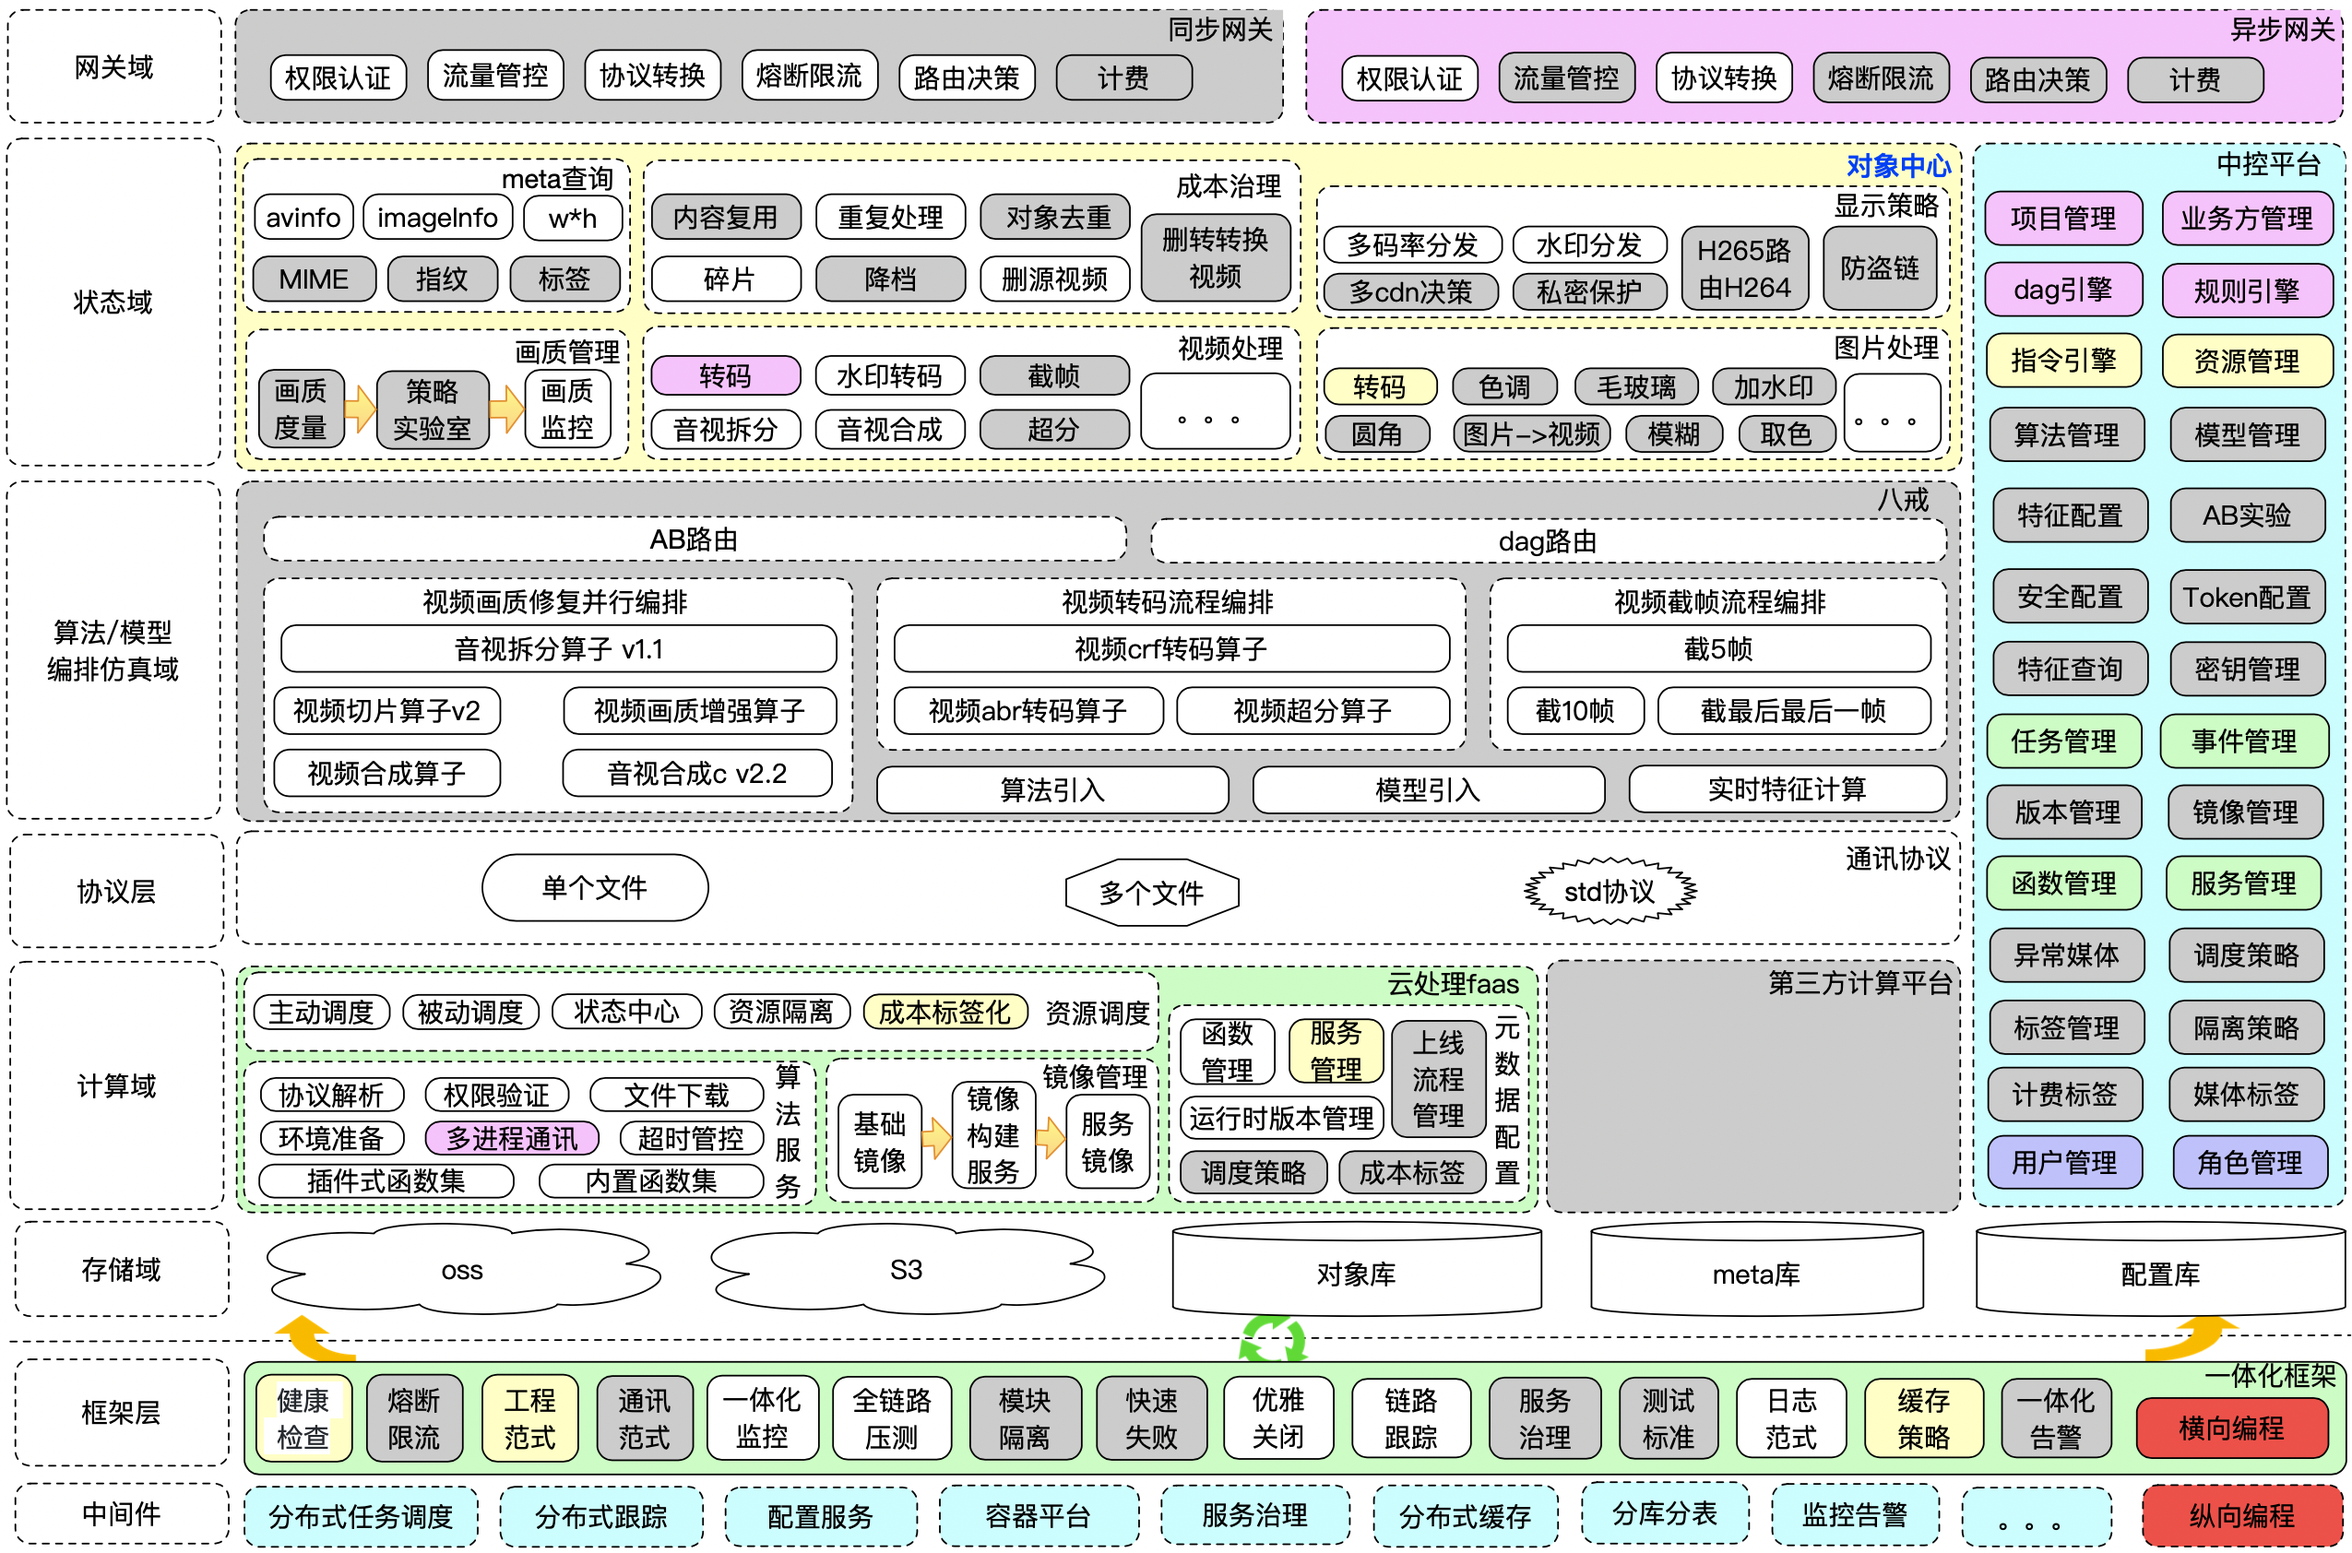
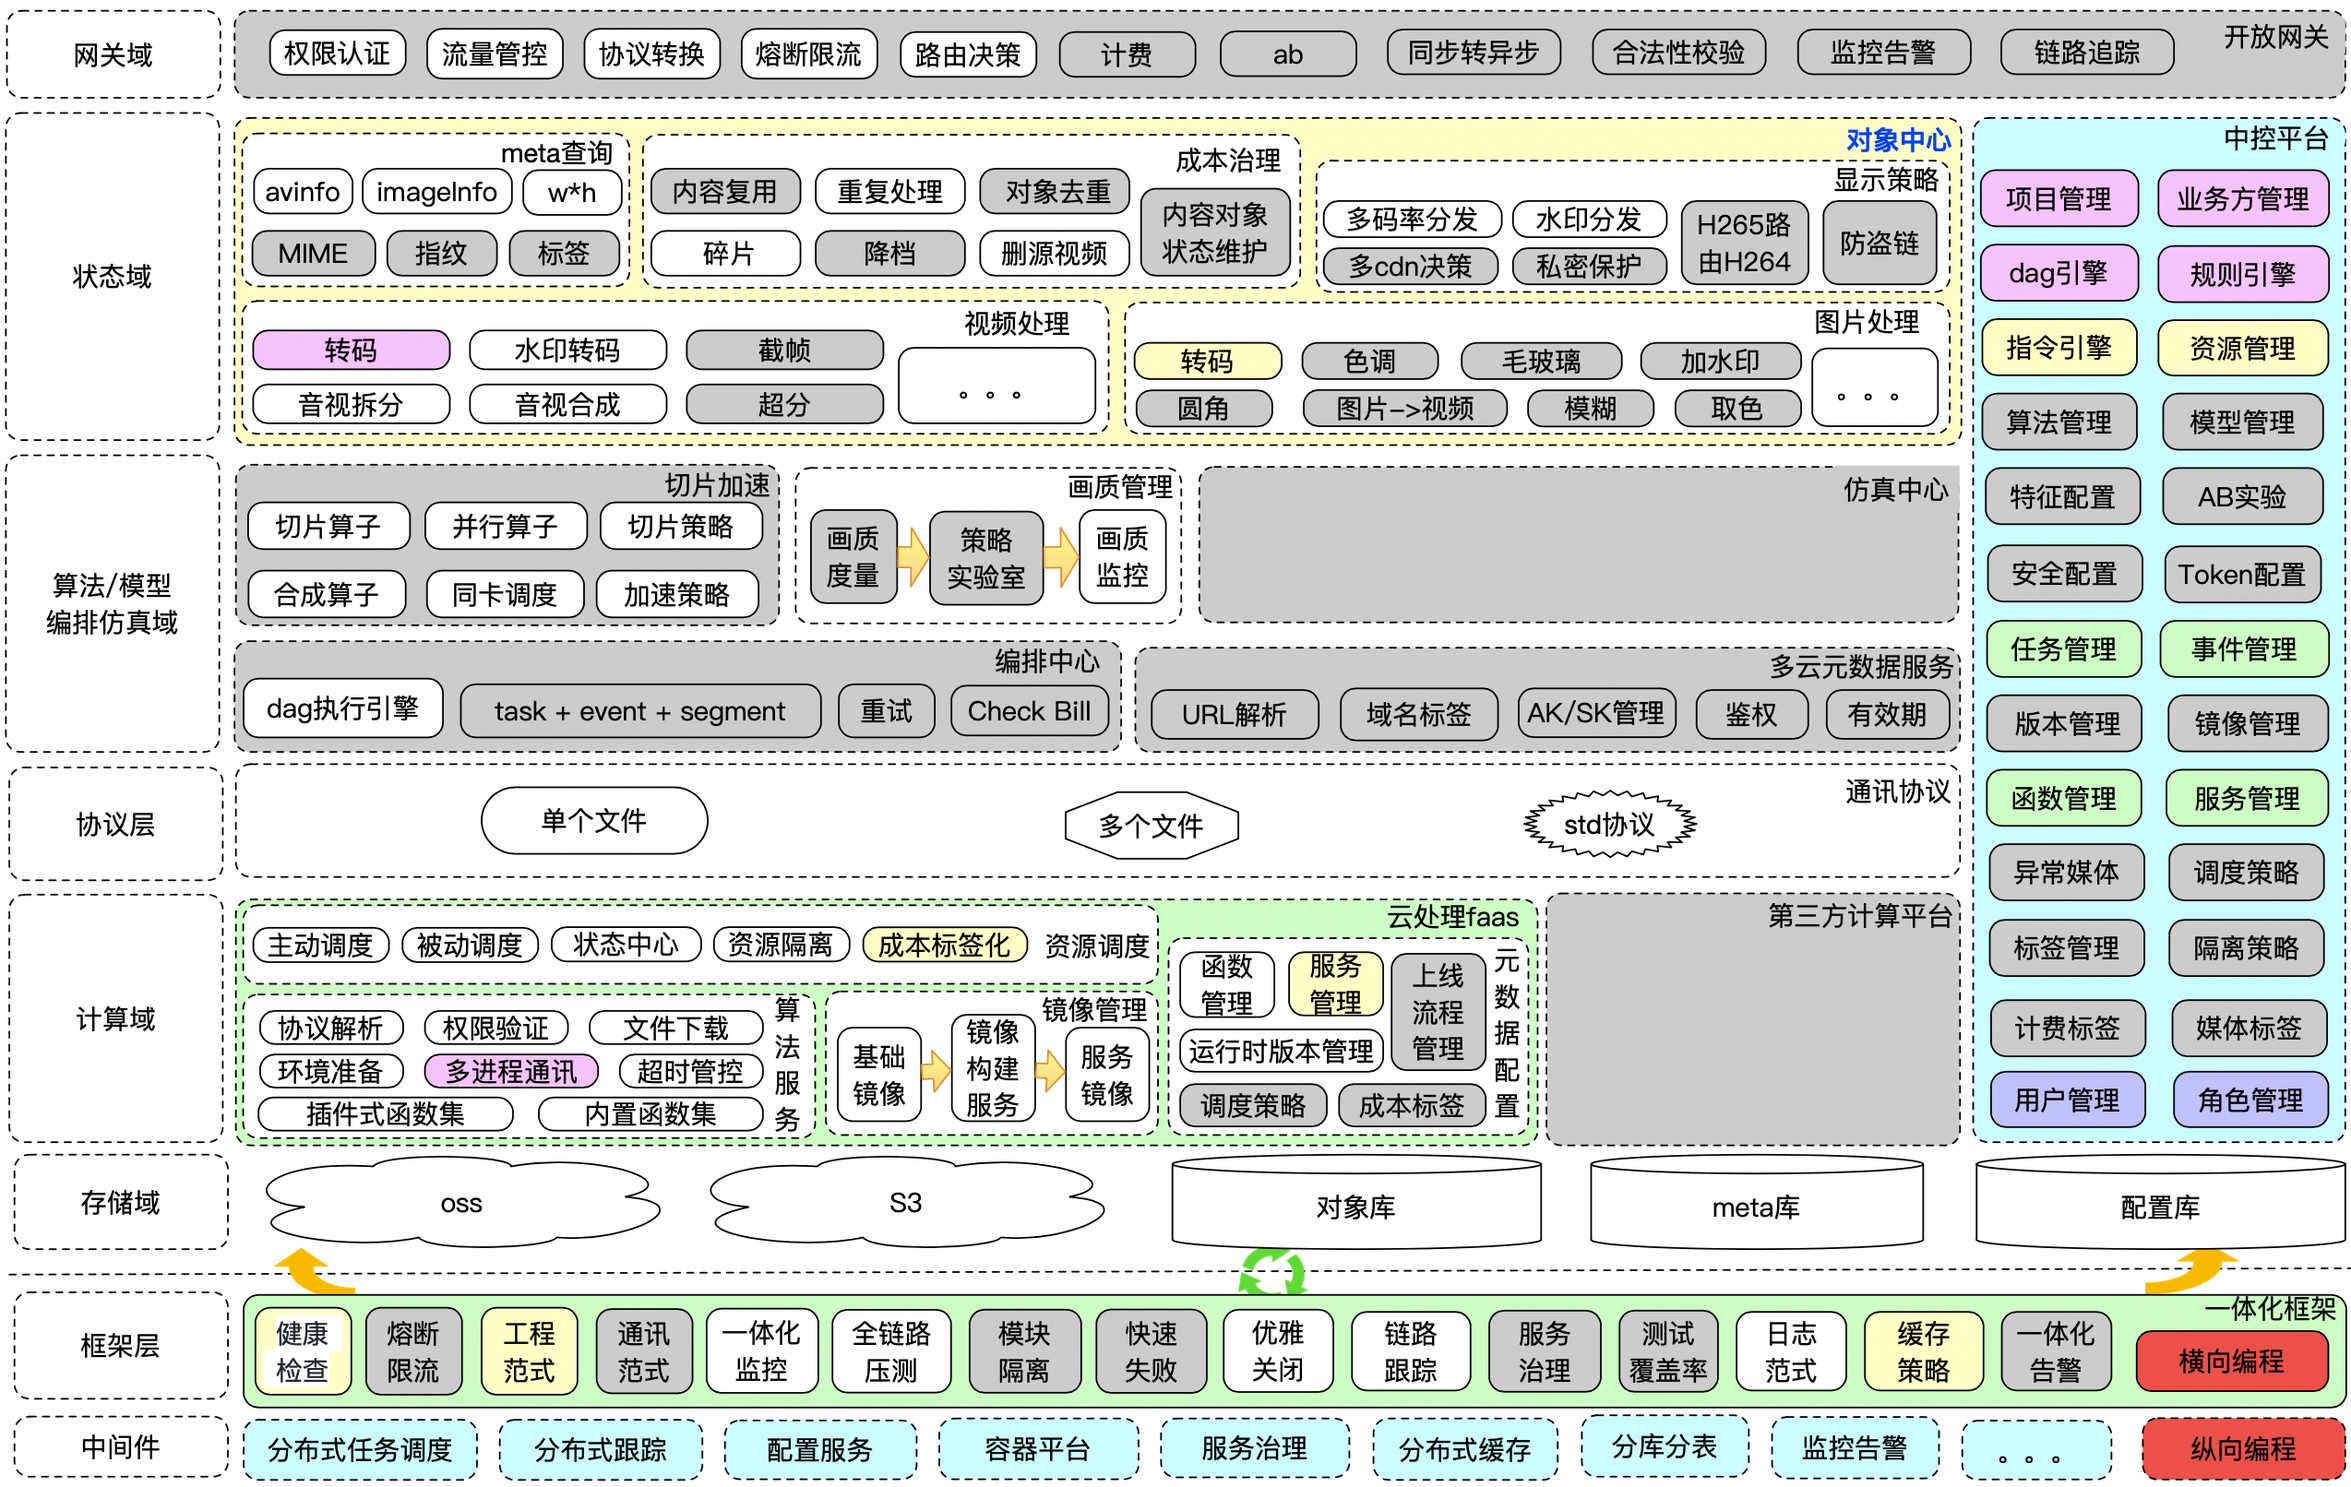
git p

diff --git a/source/_posts/云端图片、视频处理体系.md b/source/_posts/云端图片、视频处理体系.md
@@ -5,41 +5,42 @@ tags: cloud process sys
 
 # 背景
 
-&ensp;&ensp;作为现代科技的重要组成部分，云端图片、视频处理的体系，为我们提供了广泛而强大的工具，极大地拓展了数字媒体处理的领域。通过将图片和视频处理移至云端，我们能够享受到更高效、灵活、可扩展的服务，能够方便、快捷、高效地服务个人用户、企业和开发者。
+作为现代科技的重要组成部分，云端图片、视频处理的体系，为我们提供了广泛而强大的工具，极大地拓展了数字媒体处理的领域。通过将图片和视频处理移至云端，我们能够享受到更高效、灵活、可扩展的服务，能够方便、快捷、高效地服务个人用户、企业和开发者。
 
 # 发展历程
+PS:该模块，有点废话了，不感兴趣的人直接跳过，看：[怎么搭建](#怎么搭建)
 
-&ensp;&ensp;云端图片、视频处理的发展历程是一个与云计算技术和网络基础设施发展紧密相连的过程。以下是云端图片视频处理的发展史的主要阶段：
+云端图片、视频处理的发展历程是一个与云计算技术和网络基础设施发展紧密相连的过程。以下是云端图片视频处理的发展史的主要阶段：
 
 ## **起步阶段（2000年前）：**
 
-&ensp;&ensp;云端图片视频处理在早期主要受限于网络带宽、计算资源和存储技术的限制。由于云计算概念尚未充分发展，图片、视频计算主要依赖于本地设备进行（简称：端处理），优势：隐私性好、方便、快捷，劣势：受到硬件性能限制非常大。
+云端图片视频处理在早期主要受限于网络带宽、计算资源和存储技术的限制。由于云计算概念尚未充分发展，图片、视频计算主要依赖于本地设备进行（简称：端处理），优势：隐私性好、方便、快捷，劣势：受到硬件性能限制非常大。
 
 ## **初期云计算服务（2006年-2010年）：**
 
-&ensp;&ensp;随着云计算概念的提出，云服务提供商如Amazon Web Services (AWS)、Google Cloud Platform (GCP)
+随着云计算概念的提出，云服务提供商如Amazon Web Services (AWS)、Google Cloud Platform (GCP)
 、国内的阿里云等开始推出基础的云计算服务。图片、视频处理逐渐开始迁移到云端，但，规模和复杂性仍受限于当时的技术水平。
 
 ## **云端计算技术逐渐成熟（2011年-2015年）：**
 
-&ensp;&ensp;在这一时期，云计算技术不断发展，云服务商提供了更多的计算、存储和网络资源。图片、视频处理也逐渐脱离本地设备，转向云端进行，提高了处理速度和效率。此时期，许多基础的图像处理和编解码服务得以涌现。
+在这一时期，云计算技术不断发展，云服务商提供了更多的计算、存储和网络资源。图片、视频处理也逐渐脱离本地设备，转向云端进行，提高了处理速度和效率。此时期，许多基础的图像处理和编解码服务得以涌现。
 
 ## **深度学习的兴起（2016年-至今）：**
 
-&ensp;&ensp;深度学习技术的兴起对云端图片视频处理产生了深远影响。深度学习算法如卷积神经网络 (CNN)
+深度学习技术的兴起对云端图片视频处理产生了深远影响。深度学习算法如卷积神经网络 (CNN)
 的应用使得图像和视频处理更加精确和智能。云服务商纷纷推出深度学习服务，为图像识别、人脸识别、物体检测等任务提供了强大的支持。
 
 ## **多媒体服务整合（2018年-至今）：**
 
-&ensp;&ensp;云端图片、视频处理逐渐从简单的图像编辑、转换扩展到更复杂的多媒体服务整合。云服务商提供全面的多媒体处理服务，包括：图像识别、视频分析、实时流媒体处理等，为用户提供了更多选择。
+云端图片、视频处理逐渐从简单的图像编辑、转换扩展到更复杂的多媒体服务整合。云服务商提供全面的多媒体处理服务，包括：图像识别、视频分析、实时流媒体处理等，为用户提供了更多选择。
 
 ## **边缘计算和5G技术的应用（2020年-至今）：**
 
-&ensp;&ensp;随着边缘计算和5G技术的不断发展，云端图片视频处理在边缘设备上的应用逐渐增多。这使得实时性要求更高的应用，如智能监控、自动驾驶等，在边缘设备上能够更好地实现。
+随着边缘计算和5G技术的不断发展，云端图片视频处理在边缘设备上的应用逐渐增多。这使得实时性要求更高的应用，如智能监控、自动驾驶等，在边缘设备上能够更好地实现。
 
 ## **AIGC（2023年-至今）：**
 
-&ensp;&ensp;刚过去的2023年，aigc爆火：文生图、图生图、文生视频等等，其底层技术架构体系，依旧还是：云端图片、视频计算体系。<br>
+刚过去的2023年，aigc爆火：文生图、图生图、文生视频等等，其底层技术架构体系，依旧还是：云端图片、视频计算体系。<br>
 总体而言，云端图片、视频处理的发展历程是一个由基础计算到深度学习，再到整合多媒体服务，并涉及边缘计算和隐私保护的过程。未来，随着技术的不断进步，云端图片视频处理将在更多领域发挥作用，为用户提供更加强大和智能的服务。
 
 # 怎么搭建
@@ -58,15 +59,41 @@ tags: cloud process sys
 3、例子3：图片拼接：入参：2张以上的图片，出参：一张大图片，动作：拼接
 
 ## 网关域
-云端图片、视频处理体系的网关，按照调用范式：可分为：同步网关 + 异步网关。
-1、对于用户而言，同步等待计算结果的显示，使用体验会更好，但是，图片、视频计算，确实很慢，同步等待非常容易超时，在弱网情况下，超时会更严重。
-2、如果计算比较快，同步显示结果（例如：图片计算）。如果计算比较慢（例如：长视频、高分辨率的视频），用户端使用：等待队列 + 轮询查询结果。
-3、底层计算域，统一使用异步回调机制。因此，网关处，需要同步转异步，具体流程图：
+云端图片、视频处理体系的网关，按照调用范式：可分为：同步网关 + 异步网关。对于用户而言，同步等待计算结果的显示，使用体验会更好，但是，图片、视频计算，在分配cpu触发计算之前，又只有：文件url信息等少量信息，不足于决策：分配合理核数的cpu or gpu。
+因此，由负载机器去根据当前机器负载情况，去决策当前计算多少量的视频个数，能够确保整个集群的cpu or gpu，负载更均衡些，达到整个集群，相对更优。具体流程如下图所示：
 ![](/images/sync_2_async.png)
-
-底层cpu or gpu可以根据自己的实际负载来拖取相关任务发起计算。
+备注：
+1、在物理机时代，更是如此，若无：同步转异步功能，非常容易导致：部分机器非常忙，部分机器非常闲。
+2、在容器化时代，通过cgroup的方式，虽说能够缓解一部分负载不均的问题，但是，不能解决根本问题，而且，极容易造成成本的浪费。
+3、底层计算域，最好统一通知范式：异步回调机制。
+4、底层cpu or gpu可以根据自己的实际负载来拖取相关任务发起计算。
+5、当业务量大时，可以由网关根据：请求入参，去初步分配使用哪个配置的：cpu池子 or gpu池子去处理，然后，再由底层机器，根据当前负载决策：拖几个任务来处理。
+6、当业务方量大时，建议：单独搞一个：资源主动调度服务来处理。
 
 ## 状态域
+云处理，有一个特点，用公式来表达：媒体s = fn (媒体s，参数)，
+只要上述：媒体s + 参数 + fn是固定的，无论何时、何地，再次发起计算，它的结果是一样的。而；发起cpu、gpu计算又是很费成本的事情，因此，可以利用这一点，缓存一段时间的计算结果
+这样，一方面：能够加速处理速度，提高体验，另外一方面：能够节约成本。
+它应该包括以下功能：
+
+### meta信息
+1、记录图片：宽、高、文件大小、色域等meta信息
+2、记录视频的宽、高、文件大小、视频时长、音频时长等meta信息
+以上信息，均是刚需，业务侧经常使用，对获取meta信息的接口性能也有要求。建议：缓存到redis or mysql or local cache等地方，
+
+### 索引信息
+记录图片、视频的处理前后的索引信息。包括：输入媒体是哪些？经过了哪些处理？输出媒体有哪些？方便运营侧分析运营数据
+
+### 碎片
+1、业务操作不当，导致引用的内容被删除后，相对应的媒体，没有正常删除，日积月累后，成本消耗客观。
+2、小文件存储系统都有分片上传功能，当分片上传完成后，一般只有一个结果文件存在。因此，中间过程需要及时清理掉，否则，日积月累后，成本消耗非常客观。
+因此，业务侧通过记录：业务期许的媒体文件信息大小 跟小文件存储系统做一个对比，能够大致知道：是否有碎片的产生。
+
+### cdn成本
+
+### 版权宣传
+
+### 播放体验
 
 ## 计算域
 
